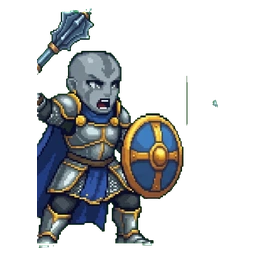
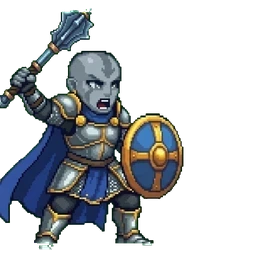
KESIM-TEPE-SON: Goliath Cleric ID7 sol yanı, Human Rogue ID4 macenta kenarı, Dwarf Paladin ID10 yüz maskesi
- goliath-kadin-cleric-ID7: sol kol/topuz/pelerin dikey kesikti (tepe +3046; iou 0,86 bu büyük ekleme yüzünden): kesim-yenile.py eski
  yerleşimle geri eklendi, kopuk dikey çizgi ve nokta kesim-kirinti.py --kopuk ile silindi; maske yeniden üretildi (eklenen kolda eldiven,
  maske yine yalnız baş).
- human-kadin-rogue-ID4: kenardaki macenta sızıntısı (kesim-kirinti.py --kopuk --macenta --sizinti --bant 8: kenar pikseli silinmez,
  rengi kısılır; içerideki saf macenta delik saydam). Konum değişmedi, elle maske hizalı.
- dwarf-erkek-paladin-ID10 (Hızır): göz çevresi ve yüz kenarındaki pembe/kırmızı ten maskede değildi: maske-duzelt.json yüz kutusu + ton
  aralığı. Maske kaymamıştı (jeton yeniden kesilmedi).
- Küçük kopyalar karakter-kucuk. Testler: tint, baglamaKq6, handMask, badgeFit.

diff --git a/scripts/kesim-kirinti.py b/scripts/kesim-kirinti.py
@@ -1,0 +1,71 @@
+#!/usr/bin/env python3
+"""KESIM-TEPE-SON (2026-11-23): jeton kenarındaki kesim kırıntılarını temizler (yalnız alfa sıfırlanır; figürün renkleri, yeri değişmez,
+ten maskesi hizalı kalır).
+  kopuk   en büyük bileşenden (alfa > 32, 8-komşu) `--uzak` px'ten (varsayılan 6) uzak ve `--alan` px'ten (varsayılan 150) küçük bileşenler
+          (kopuk çizgi, nokta).
+  macenta figürün dış kenarındaki (saydam komşulu) zemin anahtarı renkli pikseller (R ve B, G'den ≥ 60 yüksek): yeşil/macenta zeminin
+          kenara sızması; bir katman bitince yeni kenar yeniden denetlenir (`--tur`, varsayılan 3).
+  sizinti dış kenara `--bant` px (varsayılan 2) içindeki macenta yansıması kısılır (R ve B en çok G + 20; toplu-kesim.py `despill` mantığı, alfa daraltmasız:
+          kontur silinmez, yalnız rengi düzelir) ve figür içindeki saf zemin anahtarı delikleri (macentaya uzaklık < 110) saydam olur.
+Kullanım: python scripts/kesim-kirinti.py [--kopuk] [--macenta] [--sizinti] <jeton> ...   (public/characters/<ad>.webp yazılır; küçük kopya:
+npm run karakter-kucuk -- <ad>). Eski dosya public/characters/_yedek-kesim-2026-11-22/ altına (yoksa) kopyalanır.
+"""
+import os, shutil, sys
+import numpy as np
+from PIL import Image
+from scipy import ndimage as ndi
+
+ROOT = os.path.dirname(os.path.dirname(os.path.abspath(__file__))); os.chdir(ROOT)
+D, YEDEK = 'public/characters', 'public/characters/_yedek-kesim-2026-11-22'
+arg = lambda k, v: int(sys.argv[sys.argv.index(k) + 1]) if k in sys.argv else v
+VAL = ('--uzak', '--alan', '--tur', '--bant')
+names = [a for i, a in enumerate(sys.argv[1:], 1) if not a.startswith('--') and sys.argv[i - 1] not in VAL]
+
+def kopuk(a, uzak, alan):
+    op = a[..., 3] > 32
+    lab, n = ndi.label(op, structure=np.ones((3, 3)))
+    if n < 2: return 0
+    sz = np.bincount(lab.ravel()); sz[0] = 0; big = int(sz.argmax())
+    dist = ndi.distance_transform_edt(lab != big)
+    gone = 0
+    for i in range(1, n + 1):
+        if i == big or sz[i] >= alan: continue
+        m = lab == i
+        if dist[m].min() > uzak: a[m, 3] = 0; gone += int(m.sum())
+    # kopuk bileşenlerin alfa ≤ 32 hale pikselleri de (komşusu artık saydam)
+    faint = (a[..., 3] > 0) & (a[..., 3] <= 32) & ~ndi.binary_dilation(a[..., 3] > 32, iterations=2)
+    a[faint, 3] = 0
+    return gone
+
+def macenta(a, tur):
+    gone = 0
+    for _ in range(tur):
+        op = a[..., 3] > 0
+        edge = op & ndi.binary_dilation(~op, structure=np.ones((3, 3)))
+        r, g, b = (a[..., k].astype(int) for k in range(3))
+        key = (r - g >= 60) & (b - g >= 60)
+        m = edge & key
+        if not m.any(): break
+        a[m, 3] = 0; gone += int(m.sum())
+    return gone
+
+def sizinti(a, kroma=20, bant=2):
+    al = a[..., 3] > 0
+    band = al & ~ndi.binary_erosion(al, iterations=bant)
+    rgb = a[..., :3].astype(int)
+    mag = band & ((np.minimum(rgb[..., 0], rgb[..., 2]) - rgb[..., 1]) > kroma)
+    lim = rgb[..., 1] + kroma
+    a[..., 0] = np.where(mag, np.minimum(rgb[..., 0], lim), a[..., 0]); a[..., 2] = np.where(mag, np.minimum(rgb[..., 2], lim), a[..., 2])
+    hole = al & (np.linalg.norm(rgb - np.array([255, 0, 255]), axis=2) < 110)
+    a[hole, 3] = 0
+    return int(mag.sum()), int(hole.sum())
+
+for n in names:
+    f = f'{D}/{n}.webp'; a = np.array(Image.open(f).convert('RGBA'))
+    os.makedirs(YEDEK, exist_ok=True)
+    if not os.path.exists(f'{YEDEK}/{n}.webp'): shutil.copy2(f, f'{YEDEK}/{n}.webp')
+    g1 = kopuk(a, arg('--uzak', 6), arg('--alan', 150)) if '--kopuk' in sys.argv else 0
+    g2 = macenta(a, arg('--tur', 3)) if '--macenta' in sys.argv else 0
+    g3 = sizinti(a, bant=arg('--bant', 2)) if '--sizinti' in sys.argv else (0, 0)
+    Image.fromarray(a, 'RGBA').save(f, 'WEBP', quality=92, alpha_quality=100, method=4)
+    print(n, 'kopuk', g1, 'macenta', g2, 'sızıntı (renk, delik)', g3)
